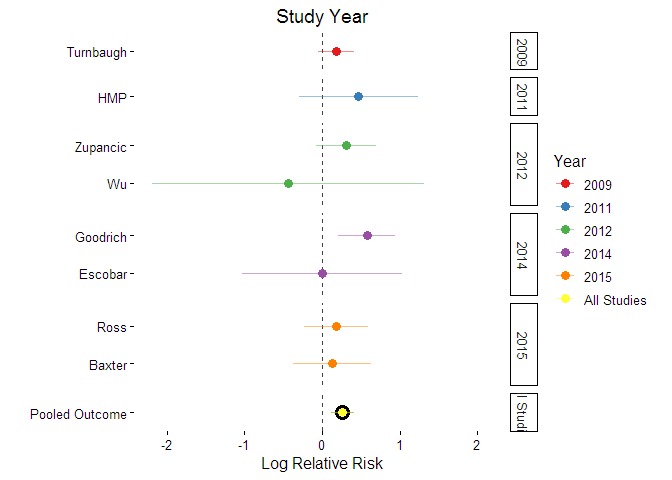
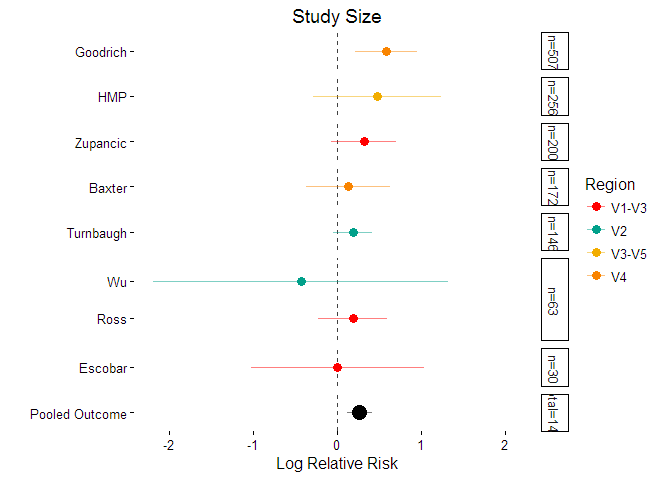
final thoughts addition

diff --git a/2016_06_23/Final_thoughts.html b/2016_06_23/Final_thoughts.html
@@ -179,8 +179,15 @@ $(document).ready(function () {
 </div>
 <div id="marian-and-nick---team-ggplot2" class="section level4">
 <h4>Marian and Nick - Team ggplot2</h4>
[2 lines of base64/hex data omitted]
+<p>First, off it should be noted that Marian and Nick did go over time so it is possible that the other teams may have come up with a similar design with the same extra 10-15mins that they got. Regardless, though they came up with some really neat ideas on how to display the information. They have a multi-panel plot but I thought I would focus on their 16S region plot since it is the most similar to the others. Some of the changes they made have already been covered by previous teams (adding a title to the graph, getting rid of the year and sample size in the study labels, and adding a legend). However, one major chnage that they added within the graph is faceting. So there is not extra information built into the graph based on the study size. With the largest study at the top and smaller studies closer to the bottom (excluding the pooled final n). They have done this while keeping the coloring for the variable regions. As an aside I changed their colour scheme to the same as the example because they had some of the same colors assigned to multiple variable regions. Honestly, I really like the potential of where you can go after building this initial framework. <br><br></p>
 </div>
+</div>
+<div id="final-thoughts" class="section level2">
+<h2>Final Thoughts</h2>
+<p>Overall I think everyone came away with the notion that for the most part what you can do with ggplot2 you can do with base. I personally still think that building the actual graph is simpler with ggplot2 than it is with base. This is a personal opinon though and in the end both methods, when used properly, can give you great visaulizations. Perhaps the one stand out aspect of ggplot2 that we found was the ability to easily facet the data into groups and organize the graph based on this. Being able to easily perform this step can add a lot of extra information to the graph as demonstrated by Marian and Nick. <br><br></p>
+<p>It would be nice to have this again at some point in time with a different data set and graph type. Additionaly, we could also add other programs like python to see how they perform. Most importantly, I think we all learned at least one or two interesting things about both base and ggplot2 that could be used in future projects. <br><br></p>
+<p>So who won? Well the comp out answer would be that we all won. However, even with a time penalty, I think Marian and Nick really had the most unique take on the data. They also showcased an aspect of ggplot2 that makes it such a strong tool.</p>
 </div>
 
 

diff --git a/2016_06_23/Final_thoughts.md b/2016_06_23/Final_thoughts.md
@@ -76,12 +76,22 @@ So team Matt decided to re-make the original `.csv` file and for their analysis 
 
 ####Marian and Nick - Team ggplot2
 
-![](Final_thoughts_files/figure-html/MN_graph-1.png)<!-- -->![](Final_thoughts_files/figure-html/MN_graph-2.png)<!-- -->
+![](Final_thoughts_files/figure-html/MN_graph-1.png)<!-- -->
+
+
+First, off it should be noted that Marian and Nick did go over time so it is possible that the other teams may have come up with a similar design with the same extra 10-15mins that they got.  Regardless, though they came up with some really neat ideas on how to display the information.  They have a multi-panel plot but I thought I would focus on their 16S region plot since it is the most similar to the others.  Some of the changes they made have already been covered by previous teams (adding a title to the graph, getting rid of the year and sample size in the study labels, and adding a legend). However, one major chnage that they added within the graph is faceting.  So there is not extra information built into the graph based on the study size.  With the largest study at the top and smaller studies closer to the bottom (excluding the pooled final n).  They have done this while keeping the coloring for the variable regions.  As an aside I changed their colour scheme to the same as the example because they had some of the same colors assigned to multiple variable regions.  Honestly, I really like the potential of where you can go after building this initial framework.
+<br><br>
+
+
+##Final Thoughts
+
+Overall I think everyone came away with the notion that for the most part what you can do with ggplot2 you can do with base.  I personally still think that building the actual graph is simpler with ggplot2 than it is with base.  This is a personal opinon though and in the end both methods, when used properly, can give you great visaulizations.  Perhaps the one stand out aspect of ggplot2 that we found was the ability to easily facet the data into groups and organize the graph based on this.  Being able to easily perform this step can add a lot of extra information to the graph as demonstrated by Marian and Nick.
+<br><br>
+
+It would be nice to have this again at some point in time with a different data set and graph type.  Additionaly, we could also add other programs like python to see how they perform.  Most importantly, I think we all learned at least one or two interesting things about both base and ggplot2 that could be used in future projects.
+<br><br>
+
+So who won?  Well the comp out answer would be that we all won.  However, even with a time penalty, I think Marian and Nick really had the most unique take on the data.  They also showcased an aspect of ggplot2 that makes it such a strong tool.
 
 
 
-
-
-
-
-  
